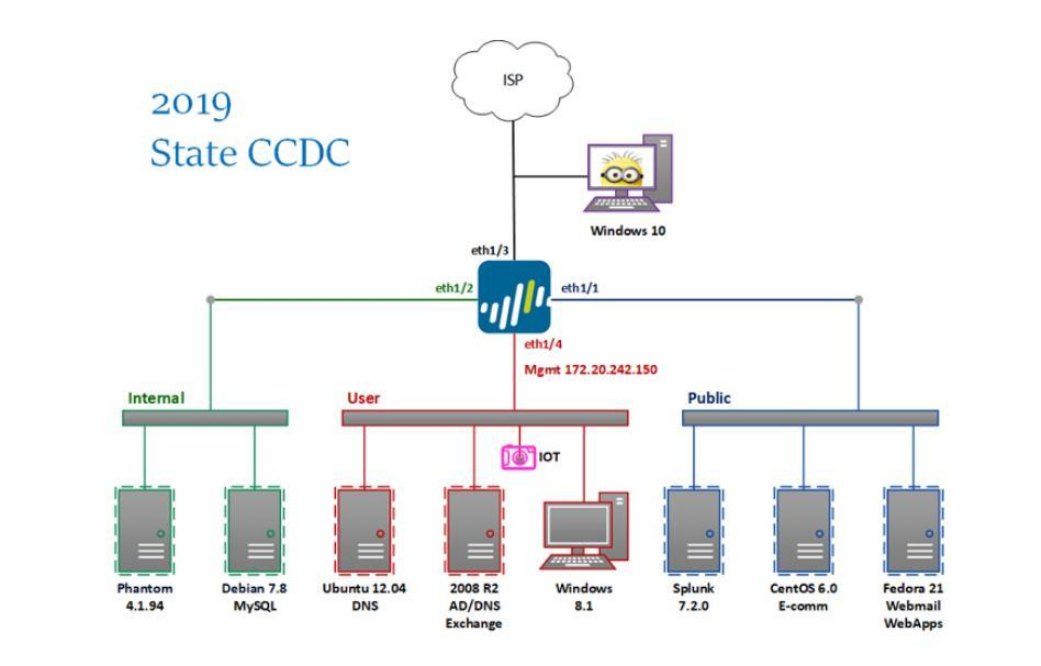
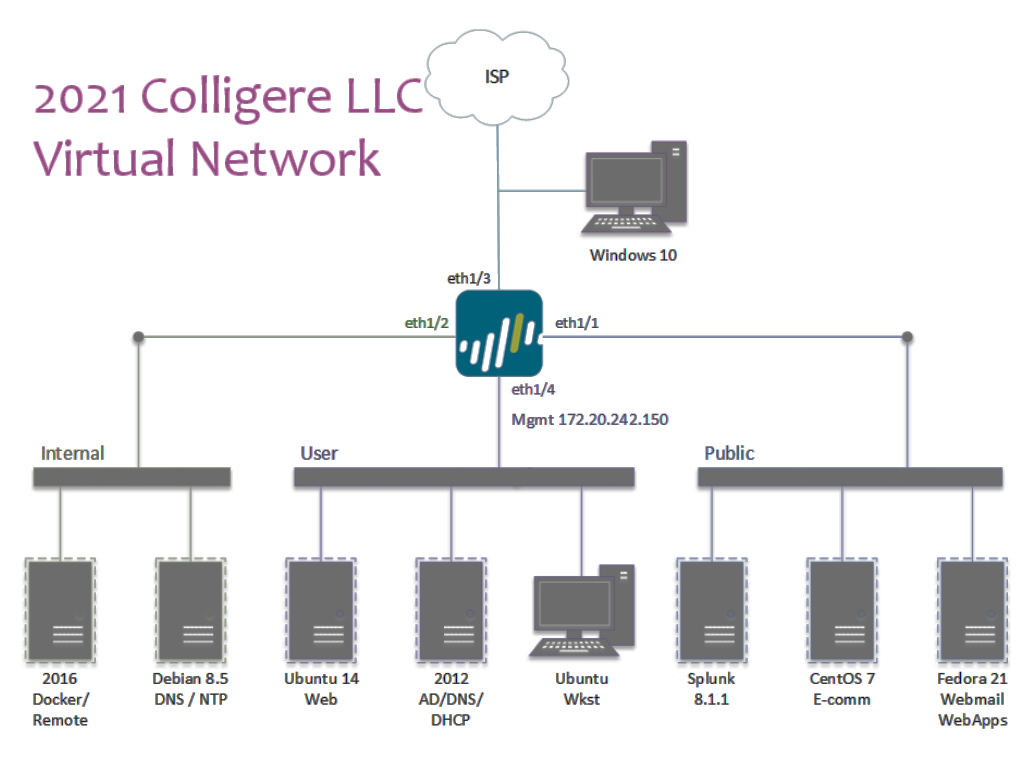
Update for 2021-22

Changed region(s): [[0.0, 0.03, 1.0, 0.961], [0.0312, 0.0901, 0.4375, 0.2703]]

diff --git a/docs/index.md b/docs/index.md
@@ -2,7 +2,7 @@
 
 ## Current Homework
 
-* Get an account with [CSLabs](https://iuscsg.org/cslabs).
+* Learn about the rules of competition, and explore your possible roles
 
 ## Things to know how to do on your box
 - What is your system/name?
@@ -19,17 +19,21 @@
 
 ![roles](assets/ccdc-roles.png)
 
-* Team Captain - Adam Isaac
-* Firewall Admin - Zac Clifton
-* Linux Web Admin - Adam Isaac
-* Linux Splunk Admin
+* Team Captain
+* Firewall Admin
+* Splunk Admin
+* CentOS Ecomm Admin
 * Windows Active Directory Admin
-* Linux Mail Admin
-* Linux Database Admin
+* Fedora Mail Admin
 * Inject Writier 
 * Incident Responder
 (Ranked in order of difficulty)
-## Schedule
 
-### To be determined
+### New Positions 
+We don't yet know the difficulty of these positions:
+* Windows Docker Admin
+* Debian DNS/NTP Admin
+* Ubuntu Web Admin
+## Schedule
+* Meeting 1 - 9/17/21 @6PM
 
